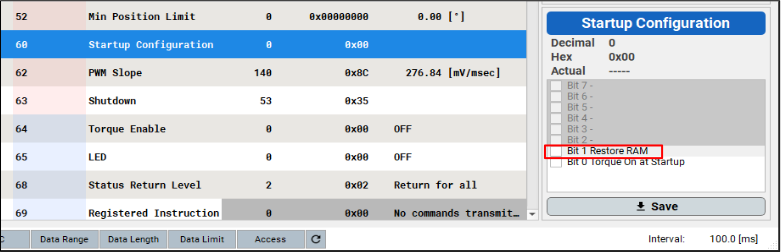
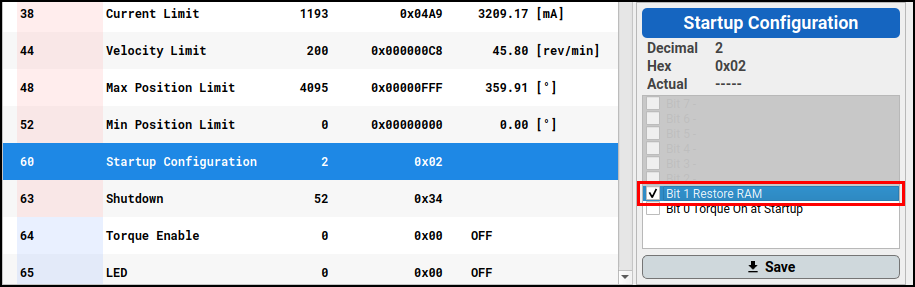
revise new feature descriptions

diff --git a/docs/kr/software/dynamixel/dynamixel_wizard2.md b/docs/kr/software/dynamixel/dynamixel_wizard2.md
@@ -500,9 +500,10 @@ sidebar:
 **지원 다이나믹셀**
 - [DYNAMIXEL-X](/docs/kr/dxl/x/) (펌웨어 버전 **45 이상**, X330 시리즈: 펌웨어 버전 **46 이상**) 
 - [DYNAMIXEL-P](/docs/kr/dxl/p/) (펌웨어 버전 **12 이상**)
+- XL-320은 지원되지 않습니다.
 {% endcapture %}
 
-다이나믹셀은 고유 ID를 가지고, Main Controller와 패킷을 사용하여 통신합니다. 
+다이나믹셀은 고유 ID를 가지고, 제어기와 패킷을 사용하여 통신합니다. 
 
 만약 조립된 로봇에서 고유 ID가 2개 이상 존재 할 경우, 통신 실패 및 다이나믹셀 위자드 2.0에서 다이나믹셀 검색에 실패할 수 있습니다. 
 
@@ -558,70 +559,63 @@ sidebar:
 
 > DYNAMIXEL Tips \| EEPROM and RAM Data Restoring Using Backup Funcion 
 
-`백업` 기능을 통해, 컨트롤 테이블에 저장된 EEPROM 및 일부 RAM 영역의 데이터를 다이나믹셀 내부에 저장 할 수 있습니다. 펌웨어 복구 또는 데이터가 초기화 된경우에 유용하게 사용할수 있습니다. 
+`백업` 기능을 통해, 컨트롤 테이블에 저장된 EEPROM 및 일부 RAM 영역의 데이터를 다이나믹셀 내부에 저장할 수 있습니다. 펌웨어 복구 또는 데이터가 초기화 된 경우에 유용하게 사용할수 있습니다. 
 
-저장된 데이터는 `EEPROM 복구` 기능을 통해, 다시 불러올수 있습니다. 
+저장된 데이터는 `EEPROM 복구` 기능을 통해, 다시 불러올 수 있습니다. 
 
 백업 및 복구 가능영역은 다음과 같습니다. 
 
 - EERPOM 영역 전체 
-- Velocity P.I Gains
-- Position P.I.D Gains
+- 속도 제어기의 PI Gains
+- 위치 제어기의 PID Gains
 - Feedforward 1st & 2nd Gains
 - Profile Acceleration
 - Profile Velocity
 - Indirect Addresse (다이나믹셀-P 시리즈 제외)
 
-**참고**: 백업후, RAM 영역의 복구를 위해서는, 컨트롤 테이블에서 `Startup Configuration` 주소의 **Restore RAM** 항목을 활성화 시켜야합니다. [RAM 영역 복구하기](#ram-영역-복구하기)를 참고하세요.
+**참고**: 백업후, RAM 영역의 복구를 위해서는, 컨트롤 테이블에서 `Startup Configuration` 주소의 **Restore RAM** 항목을 활성화 시켜야합니다. [RAM 영역 복구](#ram-영역-복구) 항목을 참고하세요.
 {: .notice}
 
 <div class="notice">{{ supported_dynamixel | markdownify }}</div>
 
-아래는 `백업`을 활용한 예시 입니다. 
 
-1. [다이나믹셀 검색하기](#다이나믹셀-검색하기)
+### [컨트롤 테이블 백업](#컨트롤-테이블-백업)
 
-2. EEPROM 및 RAM 영역의 컨트롤테이블 값을 설정하세요.
+1. 다이나믹셀 연결 후 [검색하기](#다이나믹셀-검색하기)
 
-    ![](/assets/images/sw/dynamixel/wizard2/backup/backup_eeprom.png)  
-    > EEPROM 설정
+2. 백업을 사용하기에 앞서, 아래와 같이 다이나믹셀이 **Torque Off** 상태인지 확인하세요. 그렇지 않으면, 백업에 실패합니다.
 
-    ![](/assets/images/sw/dynamixel/wizard2/backup/backup_ram1.png)
-
-    ![](/assets/images/sw/dynamixel/wizard2/backup/backup_ram2.png)  
-    > RAM 영역 설정
+    ![](/assets/images/sw/dynamixel/wizard2/backup/backup_torque_off_kr.png)
     
-3. 도구 > `컨트롤 테이블` > `백업` 을 클릭하세요.
+3. `도구` > `컨트롤 테이블` > `백업` 을 클릭하세요.
 
     ![](/assets/images/sw/dynamixel/wizard2/backup/backup_click_backup_kr.png)
-    
-    **주의**: `백업` 사용 전, 아래 이미지 처럼 다이나믹셀을 **Torque Off** 상태로 변경 하세요. 그렇지않으면, `백업`에 실패합니다.  
-    ![](/assets/images/sw/dynamixel/wizard2/backup/backup_torque_off_kr.png)
-    {: .notice--warning}
-    
-    **참고**: 백업 후, `Backup Ready`가 '1'로 활성화 됩니다.  
+
+4. 백업 후, `Backup Ready(147)`가 `1`로 변경됐는지 확인하세요.
+
     ![](/assets/images/sw/dynamixel/wizard2/backup/backup_backup_enabled.png)
-    {: .notice}
+
+### [EEPROM 영역 복구](#eeprom-영역-복구)
     
-4. 도구 > `컨트롤 테이블` > `EEPROM 복구`를 클릭하세요.
+1. `도구` > `컨트롤 테이블` > `EEPROM 복구`를 클릭하세요.
 
     ![](/assets/images/sw/dynamixel/wizard2/backup/backup_click_restore_kr.png)
 
-5. `EEPROM 복구`이후 다이나믹셀은 백업된 데이터를 불러옵니다.
+2. 다이나믹셀이 재부팅되며 EEPROM이 저장된 값으로 복구됩니다.
 
-    ![](/assets/images/sw/dynamixel/wizard2/backup/backup_restore_eeprom.png)
+### [RAM 영역 복구](#ram-영역-복구)
 
-### [RAM 영역 복구하기](#ram-영역-복구하기)
-
-1. EEPROM에서 `StartUp Configuration` 주소의 `Restore RAM` 비트를 활성화 하세요.
+1. EEPROM에서 `StartUp Configuration` 주소의 **Restore RAM** 항목을 체크하세요.
 
    ![](/assets/images/sw/dynamixel/wizard2/backup/backup_enable_restore_ram.png)
-       
-2. 다이나믹셀 재부팅시, 저장된 RAM영역을 불러옵니다. 
 
-   ![](/assets/images/sw/dynamixel/wizard2/backup/backup_restore_ram2.png)
-       
-   ![](/assets/images/sw/dynamixel/wizard2/backup/backup_restore_ram1.png)
+2. 다이나믹셀이 부팅될 때마다, 아래의 특정 RAM영역의 값을 저장된 데이터로 복구합니다.
+    - 속도 제어기의 PI Gains
+    - 위치 제어기의 PID Gains
+    - Feedforward 1st & 2nd Gains
+    - Profile Acceleration
+    - Profile Velocity
+    - Indirect Addresses (다이나믹셀-P 시리즈 제외)
 
 ## [컨트롤 아이템 값 변경](#컨트롤-아이템-값-변경)  
 

diff --git a/docs/en/software/dynamixel/dynamixel_wizard2.md b/docs/en/software/dynamixel/dynamixel_wizard2.md
@@ -504,7 +504,8 @@ When positioning a mouse cursor on its model name, **Firmware update is availabl
 {% capture supported_dynamixel %}
 **Supported DYNAMIXEL**
 - [DYNAMIXEL-X](/docs/en/dxl/x/) (Firmware **v45** or **above**, For X330 Series: Firmware **v46** or **above**) 
-- [DYNAMIXEL-P](/docs/en/dxl/p/) (Firmware **v12** or **above**)  
+- [DYNAMIXEL-P](/docs/en/dxl/p/) (Firmware **v12** or **above**)
+- XL-320 is not supported
 {% endcapture %}
 
 As the DYNAMIXEL can be distinguished by its own ID in packet communication with your main controller, the ID assigned on DYNAMIXEL has to be unique. 
@@ -557,7 +558,7 @@ The `ID Inspection` resolves the overlapping ID although they remain wired. For 
     ![](/assets/images/sw/dynamixel/wizard2/id_inspection/id_inspection_done.png)  
 
 
-## [Data Backup and Restore](#data-backup-and-restore)
+## [Backup and Restore](#backup-and-restore)
 
 <iframe width="560" height="315" src="https://www.youtube.com/embed/CFinASETHiQ" title="YouTube video player" frameborder="0" allow="accelerometer; autoplay; clipboard-write; encrypted-media; gyroscope; picture-in-picture" allowfullscreen></iframe>
 
@@ -570,64 +571,56 @@ This can be useful if the DYNAMIXEL are reset after the [Firmware Recovery](#fir
 The stored data by `backup` can be restored in using `Restore EEPROM`.
 
 See the available items in Control Table for data backup, 
-- All Data in EERPOM 
+- All Data in EERPOM
 - Velocity P.I Gains
 - Position P.I.D Gains
 - Feedforward 1st & 2nd Gains
 - Profile Acceleration
 - Profile Velocity
-- Indirect Addresses (Except for DYNAMIXEL-P Series)
+- Indirect Addresses (Except DYNAMIXEL-P Series)
 
-**Note**: Be sure to enable **Restore RAM** bit from `Startup Configuration` address in Control Table, in order to restore stored RAM data by `Backup`.
+**Note**: Be sure to set the **Restore RAM** bit of the `Startup Configuration(60)` address in order to restore the RAM data on startup.
 {: .notice}
 
 <div class="notice">{{ supported_dynamixel | markdownify }}</div>
 
-See the following instruction for the use of `Backup`. 
+## [Control Table Backup](#backup-the-control-table)
 
-1. [Scan DYNAMIXEL](#scan-dynamixel). 
+1. Connect and [Scan DYNAMIXEL](#scan-dynamixel).
 
-2. Change and save value of data in EEPROM and RAM. 
+2. Make sure to turn off the Torque of DYNAMIXEL. Otherwise, backup will fail.
 
-    ![](/assets/images/sw/dynamixel/wizard2/backup/backup_eeprom.png)  
-    > Data in EEPROM
-
-    ![](/assets/images/sw/dynamixel/wizard2/backup/backup_ram1.png)
-
-    ![](/assets/images/sw/dynamixel/wizard2/backup/backup_ram2.png)  
-    > Data in RAM
+    ![](/assets/images/sw/dynamixel/wizard2/backup/backup_torque_off.png)
     
-3. Go to `Tool` > `Control Table` > `Backup` 
+3. Select `Tool` > `Control Table` > `Backup` 
 
     ![](/assets/images/sw/dynamixel/wizard2/backup/backup_click_backup.png)
     
-    **WARNING**: Before `Backup`, be sure to have the DYNAMIXEL **Torque Off** status as the image below. Otherwise, `Backup` will get failed.  
-    ![](/assets/images/sw/dynamixel/wizard2/backup/backup_torque_off.png)
-    {: .notice--warning}
-    
-    **Note**: `Backup Ready` becomes '1' after `Backup`.  
+4. Check if the `Backup Ready(147)` address is set to `1` after backup.  
+
     ![](/assets/images/sw/dynamixel/wizard2/backup/backup_backup_enabled.png)
-    {: .notice}
-  
-4. Go to `Tool` > `Control Table` > `Restore EEPROM`
+
+### [Restoring EEPROM Area](#restoring-eeprom-area)
+
+1. Go to `Tool` > `Control Table` > `Restore EEPROM`
 
     ![](/assets/images/sw/dynamixel/wizard2/backup/backup_click_restore.png)
 
-5. Confirm that backup data are restored. 
+2. DYNAMIXEL will be rebooted and restore the EEPROM settings.
 
-    ![](/assets/images/sw/dynamixel/wizard2/backup/backup_restore_eeprom.png)
+### [Restoring RAM Area](#restoring-ram-area)
 
-### [How to Restore RAM Data](#how-to-restore-ram-data)
-
-1. Set a bit of **Restore RAM** as '1' of `Startup Configuration` in Control Table
+1. Set the **Restore RAM** bit of the `Startup Configuration` as below.
 
    ![](/assets/images/sw/dynamixel/wizard2/backup/backup_enable_restore_ram.png)
        
-2. Whenever rebooting or starting the DYNAMIXEL, stored RAM data will be called. 
-
-   ![](/assets/images/sw/dynamixel/wizard2/backup/backup_restore_ram2.png)
-       
-   ![](/assets/images/sw/dynamixel/wizard2/backup/backup_restore_ram1.png)
+2. The data in specific RAM area(listed below) will be restored when DYNAMIXEL is rebooted.
+    - Velocity P.I Gains
+    - Position P.I.D Gains
+    - Feedforward 1st & 2nd Gains
+    - Profile Acceleration
+    - Profile Velocity
+    - Indirect Addresses (Except for DYNAMIXEL-P Series)
    
 ## [Modifying Control Values](#modifying-control-values)
 

diff --git a/_includes/en/dxl/control_table_60_startup_configuration.md b/_includes/en/dxl/control_table_60_startup_configuration.md
@@ -6,21 +6,21 @@
 {% assign firmware_version_startup_configuration = "firmware **V45**" %}
 {% endif %}
 
-The Startup Configuration(60) determines a status of DYNAMIXEL upon powering. 
+The Startup Configuration(60) allows to set up the DYNAMIXEL with specific settings on startup.
 
-|     Bit     |       Item        | Description                                                                                                                                                                             |
-|:-----------:|:-----------------:|:----------------------------------------------------------------------------------------------------------------------------------------------------------------------------------------|
-| Bit 7(0x80) |         -         | Unused, always ‘0’                                                                                                                                                                      |
-| Bit 6(0x40) |         -         | Unused, always ‘0’                                                                                                                                                                      |
-| Bit 5(0x20) |         -         | Unused, always ‘0’                                                                                                                                                                      |
-| Bit 4(0x10) |         -         | Unused, always ‘0’                                                                                                                                                                      |
-| Bit 3(0x08) |         -         | Unused, always ‘0’                                                                                                                                                                      |
-| Bit 2(0x04) |         -         | Unused, always ‘0’                                                                                                                                                                      |
-| Bit 1(0x02) |    RAM Restore    | **[0]** On boot, data in RAM area are restored to default.  <br>**[1]** On boot, data in RAM area are restored to your backup data.                                                     |
-| Bit 0(0x01) | Startup Torque On | **[0]** On boot, DYNAMIXEL is on a status of Torque On (Value of Torque Enable(64) is '0') <br>**[1]**On boot, DYNAMIXEL is on a status of Torque Off (Value Torque Enable(64) is '1'). |
+|     Bit     |       Item        | Description                                                                                                                            |
+|:-----------:|:-----------------:|:---------------------------------------------------------------------------------------------------------------------------------------|
+| Bit 7(0x80) |         -         | Unused, always ‘0’                                                                                                                     |
+| Bit 6(0x40) |         -         | Unused, always ‘0’                                                                                                                     |
+| Bit 5(0x20) |         -         | Unused, always ‘0’                                                                                                                     |
+| Bit 4(0x10) |         -         | Unused, always ‘0’                                                                                                                     |
+| Bit 3(0x08) |         -         | Unused, always ‘0’                                                                                                                     |
+| Bit 2(0x04) |         -         | Unused, always ‘0’                                                                                                                     |
+| Bit 1(0x02) |    RAM Restore    | **[0]** Deactivate the RAM area restoration on startup.<br>**[1]** On startup, use the backup data to restore the RAM area.            |
+| Bit 0(0x01) | Startup Torque On | **[0]** Torque Off on startup (`Torque Enable(64)` is set to `0`)<br>**[1]** Torque On on startup (`Torque Enable(64)` is set to `1`). |
 
 **NOTE**: Startup Configuration is available from {{ firmware_version_startup_configuration }}. 
 {: .notice}
 
-**NOTE**: For more details about RAM Restore, see [How to Restore RAM Data](/docs/en/software/dynamixel/dynamixel_wizard2/#how-to-restore-ram-data).
+**NOTE**: For more details about restoring the RAM area, see [Restoring RAM Area](/docs/en/software/dynamixel/dynamixel_wizard2/#restoring-ram-area).
 {: .notice}

diff --git a/docs/en/dxl/protocol2.md b/docs/en/dxl/protocol2.md
@@ -452,6 +452,7 @@ Note that given examples use the following abbreviation to provide clear informa
 - Instruction to store current [Control Table] status data to a Backup area, or to restore EEPROM data.
 - The Control Table Backup works properly only if **Torque Enable** in RAM area is set as '0' (Torque Off status). If the Torque Enable is set as '1' (Torque On), Status Packet with [Result Fail](#error) will be returned.
 - The Control Table Backup is available from FW45 (for X430, X540 series), FW46 (for X330 series) and FW12 (for P series).
+- XL-320 is not supported.
 - Available items in Control Table for data backup: 
   - All Data in EERPOM 
   - Velocity P.I Gains
@@ -459,12 +460,12 @@ Note that given examples use the following abbreviation to provide clear informa
   - Feedforward 1st & 2nd Gains
   - Profile Acceleration
   - Profile Velocity
-  - Indirect Addresses (Except for DYNAMIXEL-P Series)
+  - Indirect Addresses (Except DYNAMIXEL-P Series)
 
 {% capture howto_backup %}
 **Note**
-- See [Data Backup and Restore](/docs/en/software/dynamixel/dynamixel_wizard2/#data-backup-and-restore) for more details.
-- RAM data stored by Control Table Backup can be restored by using **Startup Configuration(60)**. see [How to Restore RAM Data](/docs/en/software/dynamixel/dynamixel_wizard2/#how-to-restore-ram-data).
+- See [Backup and Restore](/docs/en/software/dynamixel/dynamixel_wizard2/#backup-and-restore) for more details.
+- RAM area can be restored by configuring the **Startup Configuration(60)** address. Refer to the [Restoring RAM Area](/docs/en/software/dynamixel/dynamixel_wizard2/#restoring-ram-area) for more information.
 {% endcapture %}
 
 <div class="notice">{{ howto_backup | markdownify}}</div>
@@ -481,9 +482,9 @@ Note that given examples use the following abbreviation to provide clear informa
 
 ### Example
 
-#### Example 1 Description
+#### Example 1 Conditions
 
-ID 1(XC330-T288): Storing Control Table data in Backup area.
+- ID 1(XC330-T288) : Backup the Control Table.
 
 #### Control Table Backup Packet
 
@@ -497,11 +498,12 @@ ID 1(XC330-T288): Storing Control Table data in Backup area.
 |:----:|:----:|:----:|:----:|:---------:|:----:|:----:|:----:|:----:|:----:|:----:|
 | 0xFF | 0xFF | 0xFD | 0x00 |   0x01    | 0x04 | 0x00 | 0x55 | 0x00 | 0xA1 | 0x0C |
 
-#### Example 2 Description
+#### Example 2 Conditions
 
-ID1 (XC330-T288): Restoring EEPROM data stored in Backup area (DYNAMIXEL is rebooted after restoring data).
+- ID1(XC330-T288) : Restoring EEPROM data
+- DYNAMIXEL will be rebooted after a successful restoration.
 
-#### Control Table Backup Packet
+#### Control Table EEPROM Restoring Packet
 
 |  H1  |  H2  |  H3  | RSRV | Packet ID | LEN1 | LEN2 | INST |  P1  |  P2  |  P3  |  P4  |  P5  | CRC1 | CRC2 |
 |:----:|:----:|:----:|:----:|:---------:|:----:|:----:|:----:|:----:|:----:|:----:|:----:|:----:|:----:|:----:|

diff --git a/_includes/en/dxl/control_table_backup_ready.md b/_includes/en/dxl/control_table_backup_ready.md
@@ -6,12 +6,14 @@
 {% assign firmware_version_backup = "firmware **V45**" %}
 {% endif %}
 
-Indicates whether backup data of Control Table saved through [Control table Backup packet](/docs/en/dxl/protocol2/#control-table-backup-0x20) exist. 
+The value in this address indicates whether the backup of the control table exists after sending the [Control Table Backup Packet](/docs/en/dxl/protocol2/#control-table-backup-0x20).
 
-| Value | Description                           |
-|:-----:|:--------------------------------------|
-|   0   | No Control Table's backup data        |
-|   1   | Control Table's backup data is saved. |
+| Value | Description                    |
+|:-----:|:-------------------------------|
+|   0   | The backup data doesn't exist. |
+|   1   | A saved backup data exists.    |
 
-**NOTE**: Backup Ready is available from {{ firmware_version_backup }}. See [Data Backup and Restore](/docs/en/software/dynamixel/dynamixel_wizard2/#data-backup-and-restore) for more details.
+**NOTE**  
+Backup Ready is available from {{ firmware_version_backup }}.  
+See [Data Backup and Restore](/docs/en/software/dynamixel/dynamixel_wizard2/#data-backup-and-restore) for more details.
 {: .notice}
